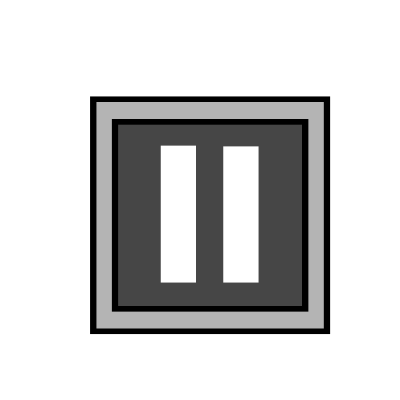
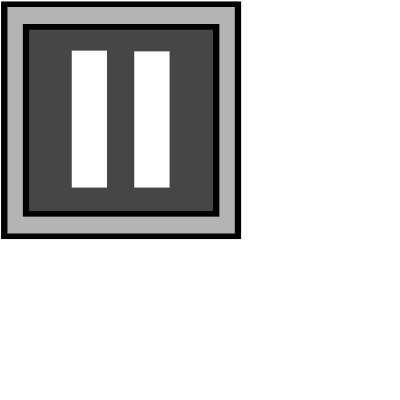
v12

diff --git a/tetris.py b/tetris.py
@@ -4,6 +4,8 @@ from pygame.math import Vector2
 class Blocks():
     def __init__(self):
         self.blocksfrozen = True
+        self.blockspaused = False
+        self.quit = False
         self.score = 0
         self.level = 0
         self.current_block = random.randint(1,7)
@@ -73,7 +75,11 @@ class Blocks():
         self.otherpinkhole = pygame.image.load('Graphics/otherpinkhole.png').convert_alpha()
 
         self.pausebutton = pygame.image.load('Graphics/pausebutton.png').convert_alpha()
+        self.pausebuttonpressed = pygame.image.load('Graphics/pausebuttonpressed.png').convert_alpha()
+        self.pausebutton_hover = False
         self.quitbutton = pygame.image.load('Graphics/quitbutton.png').convert_alpha()
+        self.quitbuttonpressed = pygame.image.load('Graphics/quitbuttonpressed.png').convert_alpha()
+        self.quitbutton_hover = False
 
     def move_block_auto(self):
         self.tick = True
@@ -2577,25 +2583,43 @@ class Blocks():
                     screen.blit(self.otherpinkhole, beam_rect)
 
     def draw_buttons(self):
-        next_block_text = ' Next'
-        next_block_surface = score_num_font.render(next_block_text, True, (255,255,255))
-        block_posx = (17.5 + 8) * cell_size
-        block_posy = 8 * cell_size
-        next_block_rect = next_block_surface.get_rect(center=(block_posx, block_posy))
-        background_rect = pygame.rect.Rect(next_block_rect.left - 90, next_block_rect.top - 20, 370, 350)
 
-        pygame.draw.rect(screen, (0,0,0), background_rect)
-        screen.blit(next_block_surface, next_block_rect)
-
-        pausebutton_rect = pygame.Rect(50, 50, 400, 400)
-        quitbutton_rect = pygame.Rect(400, 47, 400, 400)
-        quitbutton_text_rect = pygame.Rect(467, 179, 400, 400)
+        self.pausebutton_rect = pygame.Rect(145, 150, 240, 245)
+        self.quitbutton_rect = pygame.Rect(423, 150, 400, 180)
+        quitbutton_text_rect = pygame.Rect(467, 185, 360, 160)
         quitbutton_text = 'QUIT'
         quitbutton_text_surface = quitbutton_font.render(quitbutton_text, True,(255,255,255))
+        quitbutton_text_surface_pressed = quitbutton_font.render(quitbutton_text, True, (0,0,0))
 
-        screen.blit(self.pausebutton, pausebutton_rect)
-        screen.blit(self.quitbutton, quitbutton_rect)
-        screen.blit(quitbutton_text_surface, quitbutton_text_rect)
+        if self.pausebutton_hover:
+            screen.blit(self.pausebuttonpressed, self.pausebutton_rect)
+        else:
+            screen.blit(self.pausebutton, self.pausebutton_rect)
+        if self.quitbutton_hover:
+            screen.blit(self.quitbuttonpressed, self.quitbutton_rect)
+            screen.blit(quitbutton_text_surface_pressed, quitbutton_text_rect)
+        else:
+            screen.blit(self.quitbutton, self.quitbutton_rect)
+            screen.blit(quitbutton_text_surface, quitbutton_text_rect)
+
+
+    def buttonfunctions(self):
+        pos = pygame.mouse.get_pos()
+
+        if self.pausebutton_rect.collidepoint(pos):
+            self.pausebutton_hover = True
+            if pygame.mouse.get_pressed()[0] == 1 and not self.blockspaused:
+                self.blockspaused = True
+        else:
+            self.pausebutton_hover = False
+
+
+        if self.quitbutton_rect.collidepoint(pos):
+            self.quitbutton_hover = True
+            if pygame.mouse.get_pressed()[0] == 1:
+                self.quit = True
+        else:
+            self.quitbutton_hover = False
 
     def draw_sidelines(self):
         sideline_rect_l = pygame.Rect(0, 0, 1165, cell_size * 20)
@@ -2614,7 +2638,7 @@ class Main():
 
     def update(self):
         self.update_call = True
-        if not self.block.block_placed and not self.block.blocksfrozen:
+        if not self.block.block_placed and not self.block.blocksfrozen and not self.block.blockspaused:
             self.block.move_block_auto()
             self.block.collision_reset()
 
@@ -2635,11 +2659,13 @@ class Main():
         self.block.draw_placed_blocks()
         self.block.draw_sidelines()
         self.block.draw_buttons()
+        self.block.buttonfunctions()
         self.block.draw_score()
         self.block.draw_level()
         self.block.draw_next_block()
         if self.block.blocksfrozen:
-            self.block.draw_controls()
+            #self.block.draw_controls()
+            pass
 
 pygame.init()
 cell_size = 90
@@ -2661,6 +2687,8 @@ pygame.time.set_timer(screen_update, 900)
 main = Main()
 running = True
 while running:
+    if main.block.quit:
+        running = False
     for event in pygame.event.get():
         if event.type == pygame.quit:
             pygame.quit()
@@ -2671,16 +2699,16 @@ while running:
             main.block.blocksfrozen = False
             if event.key == pygame.K_ESCAPE:
                 running = False
-            if event.key == pygame.K_a and not main.block.block_placed:
+            if event.key == pygame.K_a and not main.block.block_placed and not main.block.blockspaused:
                 main.block.move_block_left()
                 main.block.check_collision()
-            if event.key == pygame.K_d and not main.block.block_placed:
+            if event.key == pygame.K_d and not main.block.block_placed and not main.block.blockspaused:
                 main.block.move_block_right()
                 main.block.check_collision()
-            if event.key == pygame.K_s and not main.block.block_placed:
+            if event.key == pygame.K_s and not main.block.block_placed and not main.block.blockspaused:
                 main.block.move_block_down()
                 main.block.check_collision()
-            if event.key == pygame.K_SPACE and not main.block.block_placed:
+            if event.key == pygame.K_SPACE and not main.block.block_placed and not main.block.blockspaused:
                 # determine the needed rotation and call rotate-function
                 if main.block.current_block != 1:
                     main.block.rotate()
